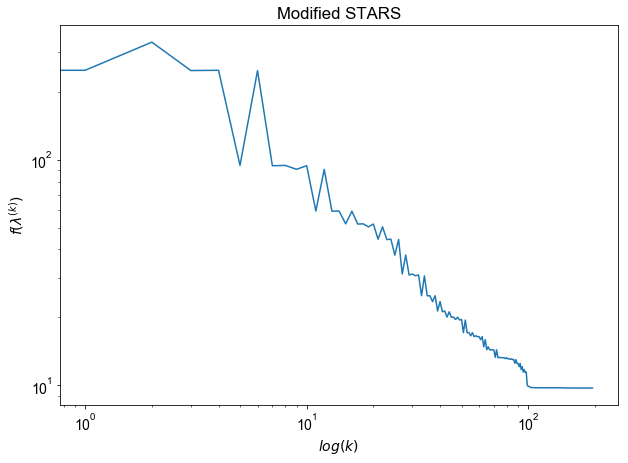
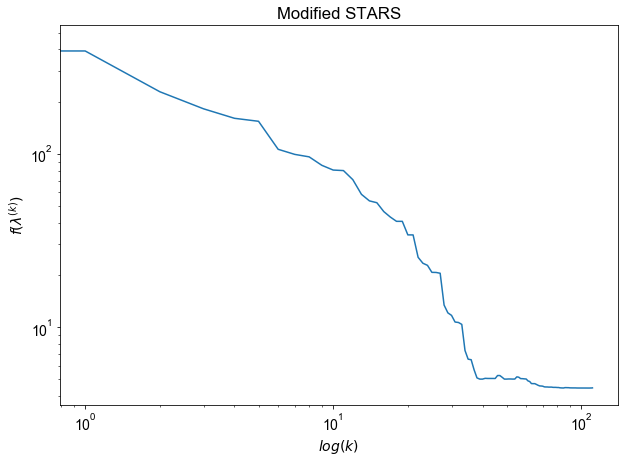
fixed figures as much as I can for today

diff --git a/Thesis Proposal/Thesis_prop_prez/jrh_proposal_prez.tex b/Thesis Proposal/Thesis_prop_prez/jrh_proposal_prez.tex
@@ -1104,7 +1104,7 @@ Left: A plot of the eigenvalues of the matrix $\hat{W}$ formed from using 100 DF
 \begin{center}
 
  
-\includegraphics[scale=0.25]{pure_stars.png} \includegraphics[scale=0.25]{mod_stars.png}
+\includegraphics[scale=0.25]{pure_stars_1.png} \includegraphics[scale=0.25]{mod_stars_1.png}
 
 Left: A log-log plot of the number of iterations (500) versus their function values in STARS. Right: A log-log plot of the number of iterations (150) versus their functions values in modified STARS.
 
